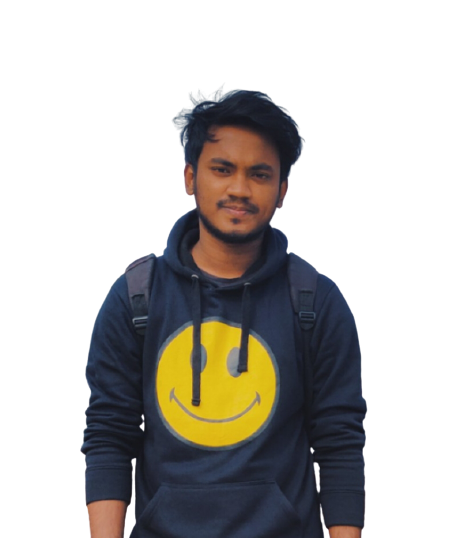
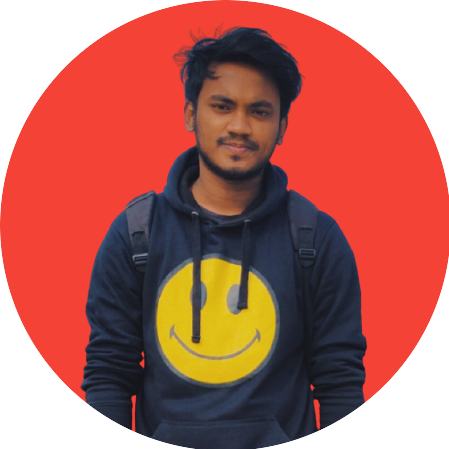
with footer

diff --git a/index.html b/index.html
@@ -15,7 +15,7 @@
         <div class="section-div">
             <div class="first-left1">
                 <h1>Stay Focused on</h1>
-                <h1>Mission 2022</h1>
+                <h1><span class="red-color"> Mission 2022</span></h1>
             </div>
             <div class="first-left2">
                 <p>Hello I am Mazharul Islam Akash. I complete my BSC(CSE) in American International University Bangladesh. Want to be a Web developer.</p>
@@ -24,8 +24,74 @@
             <p>Scroll down to explore more about me</p>
         </div>
         <div class="section-div">
-            <img src="./images/person/akash.png" alt="" srcset="">
+            <img src="./images/person/p1.png" alt="" srcset="">
         </div>
     </section>
+
+    <section class="second-section">
+        <h1>My Mission <span class="red-color" >2022</span></h1>
+        <div class="all-mission">
+            <div class="all-part1">
+                <div class="second-img">
+                    <img src="./images/illustrators/icon1.png" alt="" srcset="">
+                </div>
+                <div class="second-info-section">
+                    <h2>Mission</h2>
+                    <p>Right now my my mission is to complete programmig hero's cours successfully. Something achive form that. After that I need a job and with that i will prepare my IELTS preparation for my Higher Studies. So it's going to be a high voltage year for me.</p>
+                </div>
+            </div>
+            <div class="all-part2">
+                <div class="second-img">
+                    <img src="./images/illustrators/icon2.png" alt="" srcset="">
+                </div>
+                <div class="second-info-section">
+                    <h2>Vission</h2>
+                    <p>My vission is to be a honest, empathetic and impactful web develoer and to be recgnized internationally within my work.I am commited to growing as a leader and deleviring value-added projects to the end users.</p>
+                </div>
+            </div>
+            <div class="all-part3">
+                <div class="second-img">
+                    <img src="./images/illustrators/icon3.png" alt="" srcset="">
+                </div>
+                <div class="second-info-section">
+                    <h2>Goals</h2>
+                    <p>Every day in 2022, I will challenge one strong opinion that I will try to learn new thing.I will do every meaning converison with all kind of people.Let's see :)</p>
+                </div>
+            </div>
+        </div>
+    </section>
+
+    <section class="third-section">
+        <div class="section-div">
+            <div></div>
+        <img src="./images/person/p2.jpg" alt="" srcset="">
+        </div>
+        <div class="section-div">
+            <div class="third-right1">
+                <h1 class="font-bold">Develop</h1>
+                <h1>Without Limits</h1>
+                <p>Developers are the hidden designers of that growth, creating websites and mobile applications that improve online sales for businesses while also making consumers' lives easier. ... For those with a creative skillset and a passion for technology, a career in web development offers the best of both worlds.</p>
+                <a  class="first-btn1" target="_blank" href="">Read The Documentation</a>
+            </div>
+        </div>
+    </section>
+
+    <section class="fourth-section">
+        <div class="section-div">
+            <h1>Know</h1>
+            <h1>Global Community</h1>
+            <p>Global Communities is an international non-profit organization that works closely with communities worldwide to bring about sustainable changes that improve the lives and livelihoods of the vulnerable.</p>
+            <a  class="first-btn1" target="_blank" href="">Read The Documentation</a>
+        </div>
+        <div class="section-div">
+            <img src="./images/person/p3.jpeg" alt="" srcset="">
+        </div>
+    </section>
+    <footer class="last-footer">
+        <div id="footer1">
+            <p>Mission <span class="any-color"> 2022</span></p>
+            <p>@Akash2022, Here We Go</p>
+        </div>
+    </footer>
 </body>
 </html>

diff --git a/style.css b/style.css
@@ -2,7 +2,9 @@ body
 {
     font-family: 'Poppins', sans-serif;
     margin: 0px;
-    padding: 5%;
+    padding-left: 10%;
+    padding-right: 10%;
+    padding-top: 5%;
 }
 .first-section
 {
@@ -10,7 +12,8 @@ body
 }
 .section-div
 {
-    width: 45%;
+    width: 50%;
+    margin-top: 50px;
 }
 .section-div img
 {
@@ -24,6 +27,10 @@ body
     border-image-slice: 1;
     font-size: 20px;
 }
+.red-color
+{
+    color: rgb(185, 39, 39);
+}
 .first-btn1
 {
     border-radius: 5px;
@@ -31,5 +38,81 @@ body
     font-weight: 700;
     text-decoration: none;
     background-color: rgb(211, 224, 24);
-    padding: 5px 5px ;
+    padding: 5px 15px ;
+}
+/*second section start*/
+.second-section
+{
+    text-align: center;
+}
+.all-mission
+{
+    display: flex;
+    justify-content: space-around;
+    margin-top: 50px;
+}
+.all-part1
+{
+    background-color: rgba(214, 252, 178, 0.74);
+    width: 290px;
+    margin-bottom: 50px;
+    
+    border: 1px solid gray;
+    border-radius: 6px;
+}
+.all-part2
+{
+    background-color: rgb(247, 212, 218);
+    width: 290px;
+    margin-bottom: 50px;
+    
+    border: 1px solid gray;
+    border-radius: 6px;
+}
+.all-part3
+{
+    background-color: rgba(153, 210, 248, 0.74);
+    width: 290px;
+    margin-bottom: 50px;
+    
+    border: 1px solid gray;
+    border-radius: 6px;
+}
+.second-img img
+{
+    width: 100%;
+}
+.second-info-section
+{
+    padding: 5%;
+}
+
+/*Third section start*/
+
+.third-section
+{
+    display: flex;
+}
+.font-bold
+{
+    font-weight: bold ;
+}
+
+/*Fourth section start*/
+.fourth-section
+{
+    display: flex;
+}
+
+#footer1
+{
+    text-align: center;
+    color: white;
+    background-color: rgb(14, 10, 24);
+    padding-top: 1%;
+    padding-bottom: 1%;
+}
+.any-color
+{
+    color: rgb(228, 51, 74);
 }
